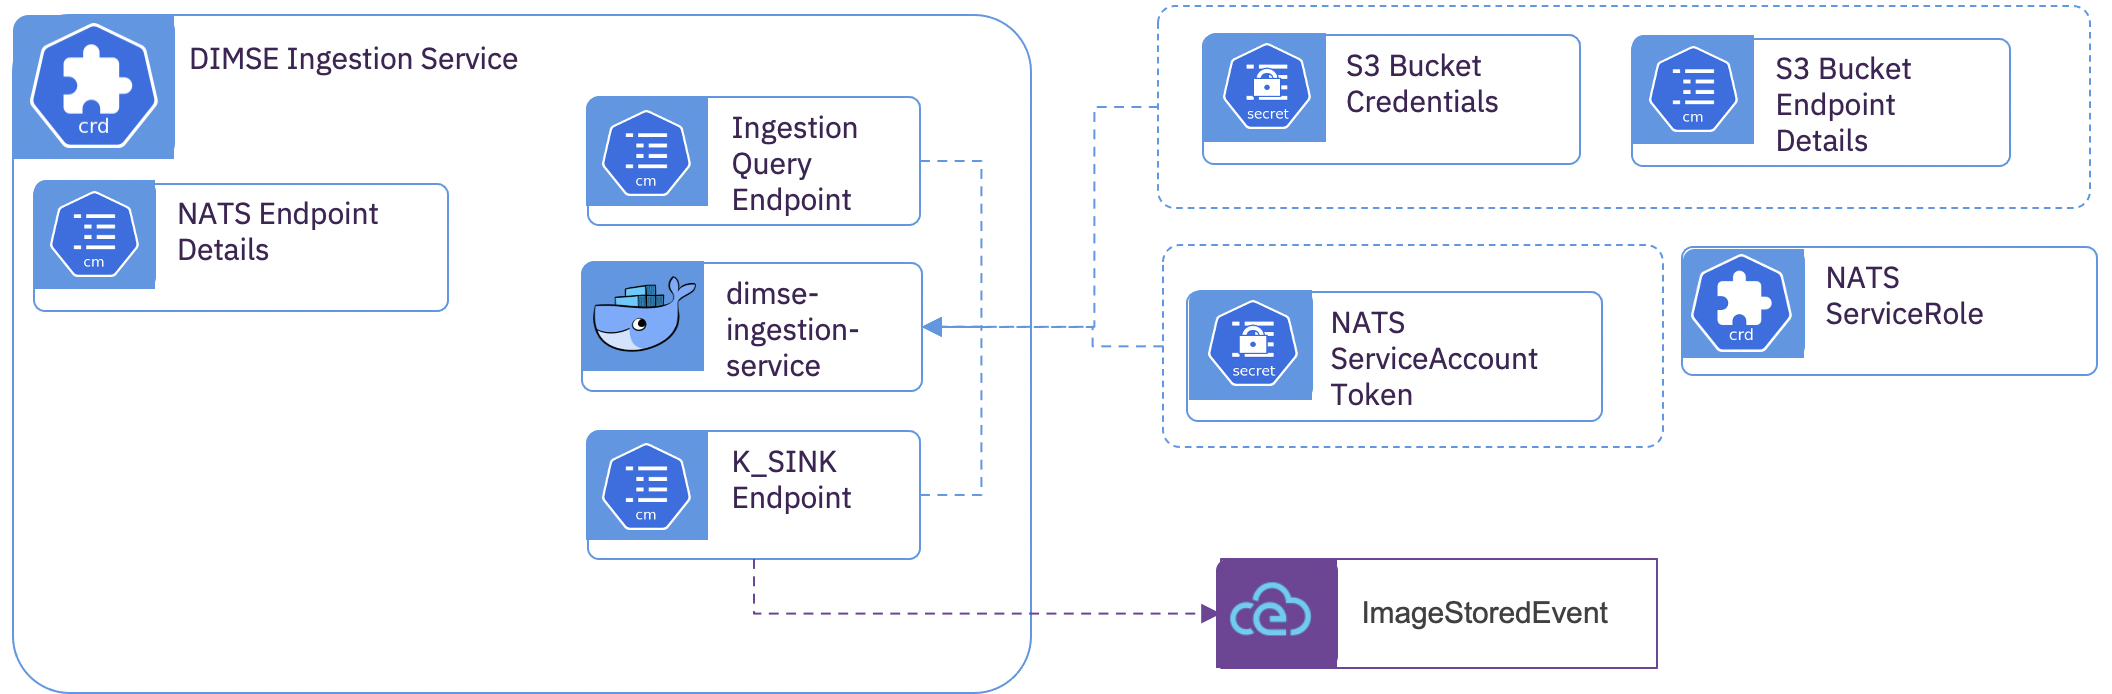
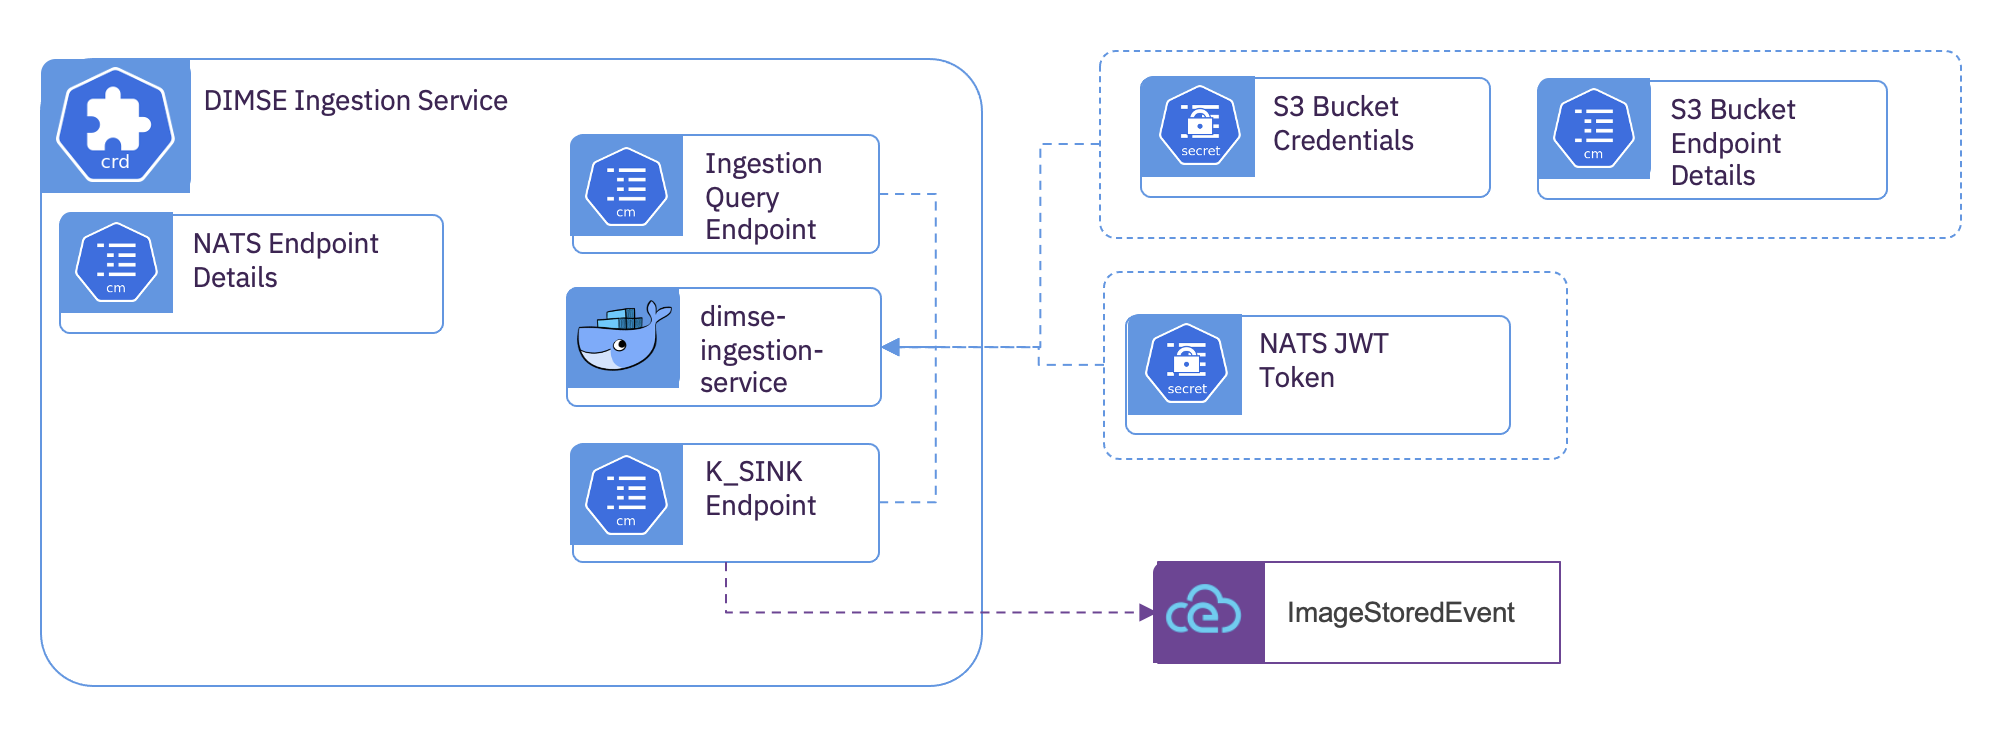
Webpages updates for using the proxy with TLS.

diff --git a/README.md b/README.md
@@ -27,7 +27,7 @@ Our initial goal is to provide enough capability to deliver a rapid proof-of-val
 The imaging ingestion component is currently comprised of six (6) subcomponents:
   
   1. [DIMSE Proxy](docs/dimse-proxy/overview.md) enables a DIMSE Application Entity (AE) point-of-presence in the enterprise imaging zone and/or within the *Kubernetes* cluster.  
-  2. [DIMSE Ingestion Service](docs/dimse-ingestion-service/overview.md) provides a proxied DIMSE Application Entity (AE) in the *Kubernetes* cluster for C-STORE operations to a storage space.
+  2. [DIMSE Ingestion Service](docs/dimse-ingestion-service/overview.md) provides a proxied DIMSE Application Entity (AE) in the *Kubernetes* cluster for C-STORE and C-FIND operations on a storage space.
   3. [DICOMweb Ingestion Service](docs/dicomweb-ingestion-service/overview.md) for DICOMweb QIDO-RS, WADO-RS, and STOW-RS access to a storage space.
   4. [DICOM Event Driven Ingestion](docs/event-driven-ingestion/overview.md) maintains a manifest of all DICOM data across all ingestion storage spaces.
   5. [DICOM Instance Binding](docs/dicom-instance-binding/overview.md) for fan-out notification of DICOM instance data.
@@ -39,7 +39,6 @@ The imaging ingestion component is currently comprised of six (6) subcomponents:
   Development Roadmap is available [here](docs/roadmap.md).  Community feedback is welcome! 
   
   - Getting started with [contribution](CONTRIBUTING.md), including how to build from source.
-  - Join us on [Slack](https://alvearie.slack.com/archives/C01SWTZEQP3)
   - Open an [issue](https://github.com/Alvearie/imaging-ingestion/issues).
 
 
@@ -71,17 +70,12 @@ The imaging ingestion component is currently comprised of six (6) subcomponents:
 
 
 **Enabling DIMSE ingestion from the enterprise imaging zone to the storage space created in step 4 above**
-  1. Configure NATS for a secure subject for the two components to communicate 
-  2. Declare a [DIMSE Ingestion Service](docs/dimse-ingestion-service/overview.md) in *Kubernetes* providing references to the subject and tokens created in 1.
-  3. Install a [DIMSE Proxy](docs/dimse-proxy/overview.md) in the enterprise imaging zone. 
+  In order to ingest DIMSE from the enterprise imaging zone to a imaging ingestion storage space, a proxy will need to be deployed within the enterprise imaging zone.  This proxy will be used to project the DIMSE Ingestion Service into the zone.  The proxy will use NATS to forward the C-STORE operations to the DIMSE Ingestion Service. 
+
+  1. Configure a NATS for a secure subject for the two subcomponents to communicate.
+  2. Declare a [DIMSE Ingestion Service](docs/dimse-ingestion-service/overview.md) in *Kubernetes* providing references to the NATS service and subject.  If the subject is secured using NATS accounts, the JWT tokens for accessing subject will also be need to be provided as a *Secret*.
+  3. Install a [DIMSE Proxy](docs/dimse-proxy/overview.md) in the enterprise imaging zone.
   4. Configure the DIMSE Proxy to use the NATS subject and tokens created by the operator in step 1.
 
-
-**Enabling bidirectional DIMSE between the enterprise imaging zone and a DIMSE service in Kubernetes**
-  `Note:  This is currently only partially complete.  Currently limited to unidirectional associations from the enterprise imaging zone proxy to the kubernetes proxy.  Bidirectional is on the roadmap.`
-  1. Configure NATS for a secure subject for the two components to communicate
-  2. Declare a [DIMSE Proxy](docs/dimse-proxy/overview.md) in *Kubernetes* providing references to the subject and tokens created in 1.
-  3. Deploy a [DIMSE Proxy](docs/dimse-proxy/overview.md) in the enterprise imaging zone.  
-  4. Configure the DIMSE Proxy to use the NATS subject and tokens created by the operator in step 1.
   
 

diff --git a/docs/dimse-proxy/overview.md b/docs/dimse-proxy/overview.md
@@ -55,6 +55,8 @@ spec:
   natsSecure: true
   # The root name of NATS subject where the proxy is subscribing and publishing messages
   natsSubjectRoot: DIMSE
+  # The NATS subject channel to use
+  natsSubjectChannel: A
   # The name of the Secret that contains the JWT token that will be used to  access to the NATS Subject.  Provide this if NATS Accounts are being used for isolation. 
   natsTokenSecret: nats-dicom-proxy-token
   proxy: {}
@@ -75,19 +77,27 @@ Use the following steps to retrieve and run the standalone DIMSE Proxy:
 
 ## Proxy Environment Settings
 
-*Note:* Expect these variable names to be subject to both change and growth in numbers as we iterate on a first release.
 
-|Environment Variable|Description| Example value |
+|Environment Variable|Description| Values (default in bold) |
 |--------------------------|--------------------------------------------------|---------|
-|DIMSE_ACTOR| The role of the proxy.  Configure to run as either server side (SERVER) or the remote projection (PROXY) | PROXY\|SERVER |
 |DIMSE_CONFIG_PATH|  Path to the folder containing the presentation states and transfer syntaxes for the proxy.  The provided docker.compose will mounts this at /etc/dimse/config.  Provide an appropriate path when using the shell script | ./dimse-config |
-|DIMSE_PROXY_PORT| The port for the proxy to listen on | 11112 |
+|DIMSE_AE| The name of the proxy Application Entity (AE).  This will be the AE name of the proxy on the local network. | INGESTION |
+|DIMSE_PORT| The port for the proxy to listen on | **11112** |
 |DIMSE_NATS_URL| The URL of the NATS cluster for proxy communication| 0a0527d6.nip.io:443 |
-|DIMSE_NATS_TLS_ENABLED| TLS enabled for NATS communications? | true\|false |
+|DIMSE_NATS_TLS_ENABLED| TLS enabled for NATS communications? | true \| false |
 |DIMSE_NATS_SUBJECT_ROOT| The Subject name in NATS that will be used for all communications between the proxies| DIMSE|
+|DIMSE_NATS_SUBJECT_CHANNEL| Each side of the proxy needs a separate channel to send messages. | **A** \| B |
 |DIMSE_NATS_AUTH_TOKEN| The JWT for accessing the configured NATS Subject | xxxxxx== |
-|DIMSE_NATS_TRACECONNECTION| Enable NATS tracing for debugging connection issues. | true\|false |
-|DIMSE_CALLED_AET| The name of the proxy AET.  This will be the AET name of the proxy on the local network. | INGESTION |
-|DIMSE_CALLED_HOST| The host to proxy to when in the SERVER role | dcm4che.dcm4che.svc.cluster.local |
-|DIMSE_CALLED_PORT| The host port to proxy to when in the SERVER role | 11112 |
-
+|DIMSE_NATS_TRACECONNECTION| Enable NATS tracing for debugging connection issues. | true \| **false** |
+|DIMSE_TARGET_AE| The AE to proxy inbound messages to | DCM4CHEE |
+|DIMSE_TARGET_HOST| The host to proxy inbound messages too | dcm4che.dcm4che.svc.cluster.local |
+|DIMSE_TARGET_PORT| The host port to proxy inbound messages to | **11112** |
+|DIMSE_TLS_ENABLED| Enable TLS for DIMSE communications on the local network| true \| **false** |
+|DIMSE_TLS_KEYSTORE| The path to the keystore for TLS configuration | |
+|DIMSE_TLS_KEYSTORE_TYPE| The file type of the keystore | JKS, **PKCS12** |
+|DIMSE_TLS_KEYSTORE_PASSWORD| The password to access the keystore | |
+|DIMSE_TLS_TRUSTSTORE| The path to the truststore for TLS configuration | |
+|DIMSE_TLS_TRUSTSTORE_TYPE| The file type of the truststore | JKS, **PKCS12** |
+|DIMSE_TLS_TRUSTSTORE_PASSWORD| The password to the truststore | |
+|DIMSE_TLS_PROTOCOL_VERSIONS| Comma-separated list of enabled TLS protocol versions. | TLSv1.0, **TLSv1.2**, TLSv1.3 |
+|DIMSE_TLS_CIPHER_SUITES| Comma-separated list of enabled TLS cipher suites. | **TLS_RSA_WITH_AES_128_CBC_SHA, SSL_RSA_WITH_3DES_EDE_CBC_SHA** |

diff --git a/docs/dimse-ingestion-service/overview.md b/docs/dimse-ingestion-service/overview.md
@@ -1,7 +1,7 @@
 # DICOM Message Service Element (DIMSE) Ingestion Service 
 
 ## Overview
-  The *DIMSE Ingestion Service* is an optional sub-component of the *Kubernetes* deployment.  This subcomponent provides the ability to C-STORE DICOM using the *DIMSE Proxy*. The *DIMSE Proxy* and *DIMSE Ingestion Service* sub-components are deployed as pairs, the proxy within the enterprise imaging zone, and the ingestion service within *Kubernetes*.  A separate deployment of this subcomponent is required for each storage space.  When creating a storage space with *DIMSE Ingestion Service*, a *DICOMweb Ingestion Service* needs to also be provided for the storage space.  This allows downstream sub-components to retrieve data using WADO-RS.
+  The *DIMSE Ingestion Service* is an optional sub-component of the *Kubernetes* deployment.  This subcomponent provides the ability to C-STORE and C-FIND DICOM to a storage space using a remote *DIMSE Proxy*. The *DIMSE Proxy* and *DIMSE Ingestion Service* subcomponents are deployed as pairs, the proxy within the enterprise imaging zone, and the ingestion service within *Kubernetes*.  A separate deployment of these subcomponent pairs is required for each storage space.  When creating a storage space with *DIMSE Ingestion Service*, a *DICOMweb Ingestion Service* needs to also be provided for the storage space.  This allows downstream subcomponents to retrieve data using WADO-RS.
 
 ## Subcomponent Architecture
 ![DIMSE Ingestion Service](../images/dimse-ingestion-service.png)
@@ -65,10 +65,11 @@ spec:
   applicationEntityTitle: "DICOM-INGEST"
   # The NATS service address
   natsUrl: 0a0527d6.nip.io:443
+  # The root name of NATS subject where the proxy is subscribing and publishing messages
+  natsSubjectRoot: DIMSE
   # Enable TLS for NATS
   natsSecure: true
-  # The ServiceAccount token that will be used to manage access to this NATS service
-  # Future:  Not yet implemented
-  #natsTokenSecret: nats-dicom-ingest-token-lhllv
+  # The JWT for the NATS account that will be used to access the NATS subject
+  natsTokenSecret: nats-dicom-ingest-token-lhllv
 ```
 
